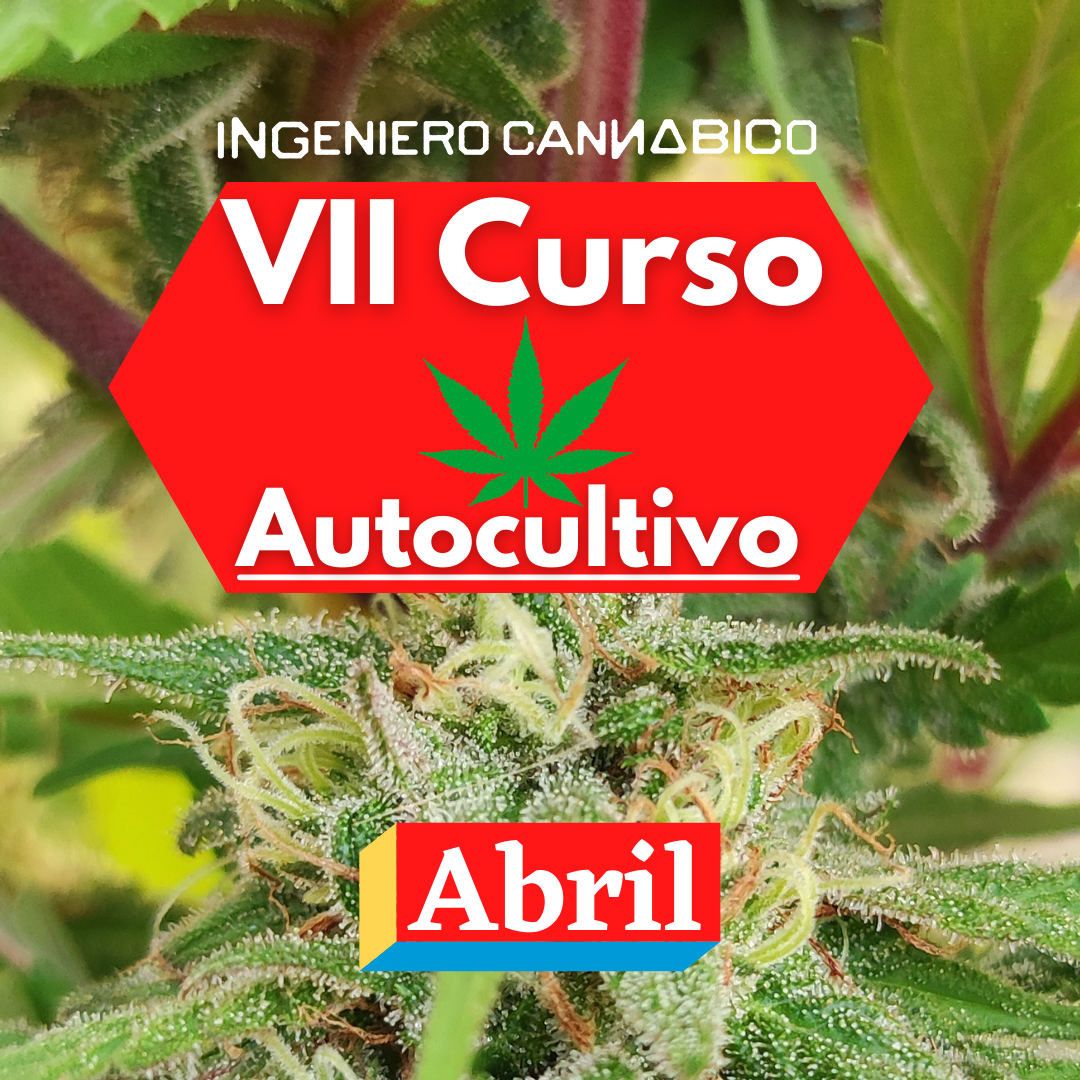
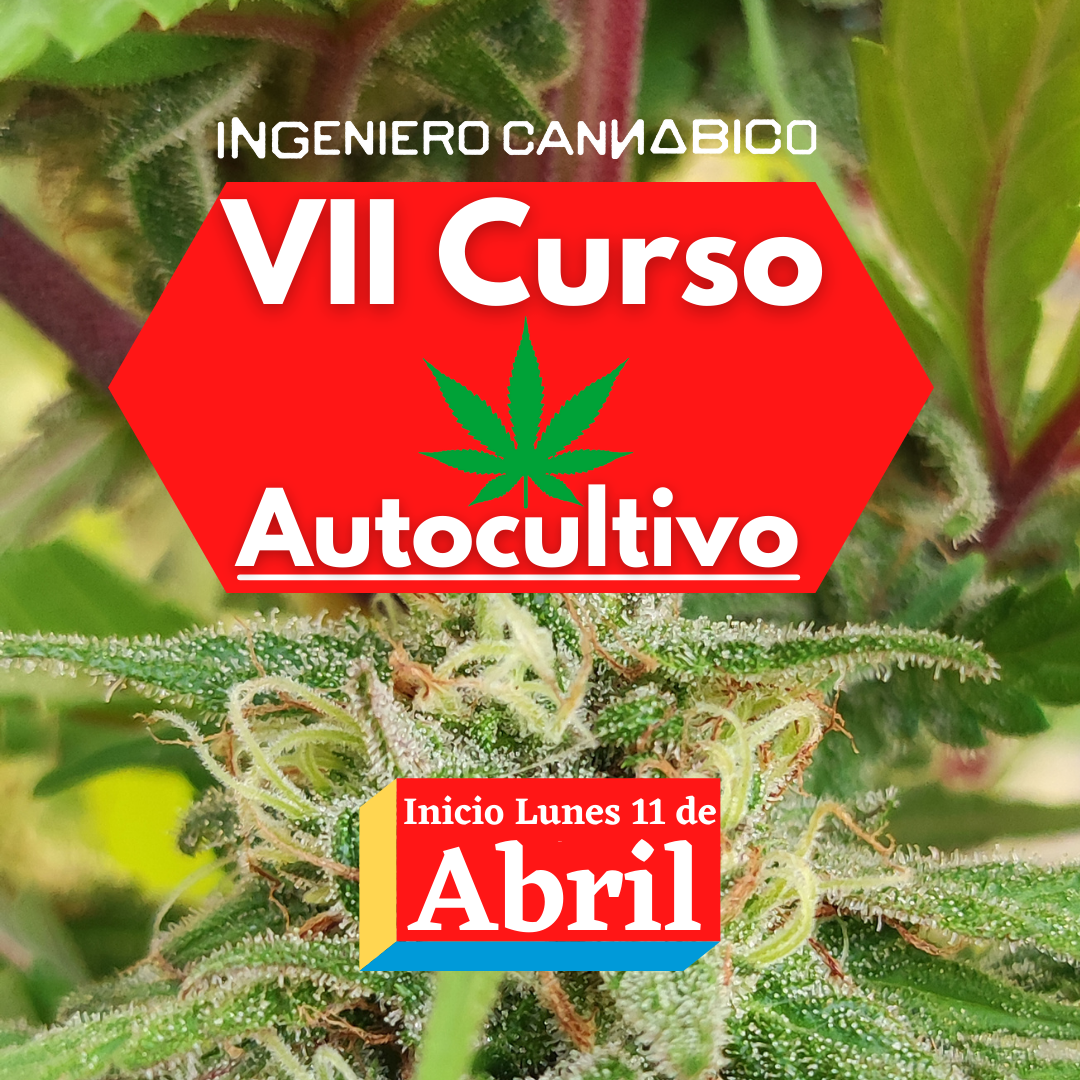
correccion flyer

Changed region(s): [[0.3361, 0.7028, 0.6722, 0.7944]]

diff --git a/index.html b/index.html
@@ -209,7 +209,7 @@
                     <div class="row">
                         <div class="col-md-6 col-mx-12 section__textColumn wow animate__animated animate__fadeInUp" data-wow-delay="0.2s">
                             <h2 class="header__tittle">VII Curso de Autocultivo</h2>
-                                <p>En Abril comienza la VII edición del curso de autocultivo de cannabis.</p> 
+                                <p>El 11 de Abril comienza la VII edición del curso de autocultivo de cannabis.</p> 
                                 <p>Durante este curso vas a aprender todo lo necesario para empezar desde cero a producir tu propio cultuvo de cannabis.</p>
                                 <p>Las clases son dictadas por el Ingeniero Agrónomo Rodrigo Maltz de manera virtual a través de Zoom. Las clases son de dos horas de duración, una vez por semana durante 4 semanas.</p>
                                 <p>Podés cursar las clases en vivo o de manera asíncrona ya que quedan grabadas para que puedas verlas las veces que quieras.</p>
